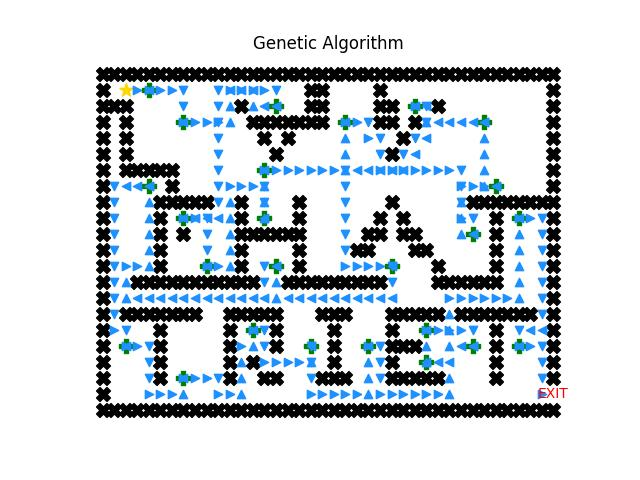
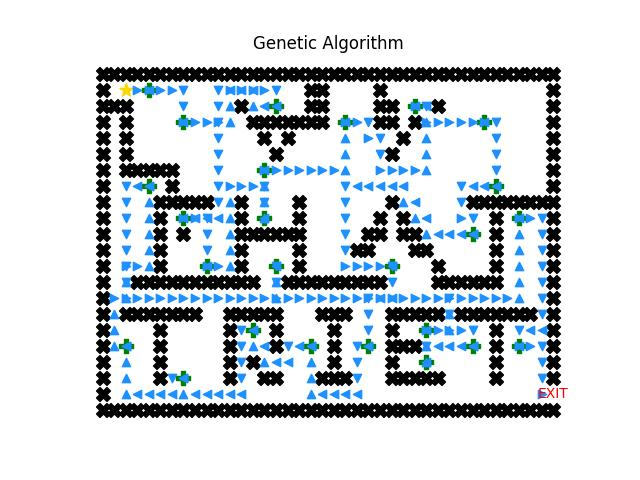
finish dijkstra for lv2

Changed region(s): [[0.1562, 0.375, 0.7188, 0.8438], [0.5312, 0.2188, 0.7812, 0.5]]

diff --git a/source/main.py b/source/main.py
@@ -10,6 +10,7 @@ from HILL_CLIMBING import *
 from GENETIC import *
 from A_Star_lv2 import *
 from DP import *
+from DIJKSTRA import *
 
 def main(argv):
     in_file, out_file = './input/', ''
@@ -40,56 +41,63 @@ def main(argv):
         name = 'BFS'
         route,explored,cost = BFS(matrix,start,end,bonus_points)
         write_cost_path(cost, './output/' + out_file + '/bfs/BFS.txt')
-        visualize_maze(matrix,bonus_points,start,end,out_put,name,route,explored)
+        visualize_maze(matrix,bonus_points,start,end,out_put,name,route,explored,False)
 
         out_put = './output/' + out_file + '/dfs/DFS.jpg'
         name = 'DFS'
         route,explored,cost = DFS_main(matrix,start,end,bonus_points)
         write_cost_path(cost, './output/' + out_file + '/dfs/DFS.txt')
-        visualize_maze(matrix,bonus_points,start,end,out_put,name,route,explored)
+        visualize_maze(matrix,bonus_points,start,end,out_put,name,route,explored,False)
 
         out_put = './output/' + out_file + '/ucs/UCS.jpg'
         name = 'UCS'
         route,explored,cost = UCS(matrix,start,end,bonus_points)
         write_cost_path(cost, './output/' + out_file + '/ucs/UCS.txt')
-        visualize_maze(matrix,bonus_points,start,end,out_put,name,route,explored)
+        visualize_maze(matrix,bonus_points,start,end,out_put,name,route,explored,False)
 
         out_put = './output/' + out_file + '/gbfs/GBFS.jpg'
         name = 'GBFS'
         route,explored,cost = GBFS(matrix,start,end,bonus_points)
         write_cost_path(cost, './output/' + out_file + '/gbfs/GBFS.txt')
-        visualize_maze(matrix,bonus_points,start,end,out_put,name,route,explored)
+        visualize_maze(matrix,bonus_points,start,end,out_put,name,route,explored,False)
 
         out_put = './output/' + out_file + '/astar/astar.jpg'
         name = 'AStar'
         route,explored,cost = AStar(matrix,start,end,bonus_points)
         write_cost_path(cost, './output/' + out_file + '/astar/astar.txt')
-        visualize_maze(matrix,bonus_points,start,end,out_put,name,route,explored)
+        visualize_maze(matrix,bonus_points,start,end,out_put,name,route,explored,False)
 
     if 'level_2' in in_file:
         out_put = './output/' + out_file + '/dp/dp.jpg'
         name = 'DP'
         route,explored,cost = DP(matrix,start,end,bonus_points)
         write_cost_path(cost, './output/' + out_file + '/dp/dp.txt')
-        visualize_maze(matrix,bonus_points,start,end,out_put,name,route,explored)
+        visualize_maze(matrix,bonus_points,start,end,out_put,name,route,explored,False)
+
+        out_put = './output/' + out_file + '/dijkstra/dijkstra.jpg'
+        name = 'Dijkstra'
+        route,explored,cost = Dijkstra(matrix,start,end,bonus_points)
+        write_cost_path(cost, './output/' + out_file + '/dijkstra/dijkstra.txt')
+        visualize_maze(matrix,bonus_points,start,end,out_put,name,route,explored,False)
 
         out_put = './output/' + out_file + '/astar_lv2/astar_lv2.jpg'
         name = 'AStar_LV2'
         route,explored,cost = AStar_Lv2(matrix,start,end,bonus_points)
         write_cost_path(cost, './output/' + out_file + '/astar_lv2/astar_lv2.txt')
-        visualize_maze(matrix,bonus_points,start,end,out_put,name,route,explored)
+        visualize_maze(matrix,bonus_points,start,end,out_put,name,route,explored,False)
+
     if 'level_3' in in_file:
         out_put = './output/' + out_file + '/hill_climbing/hill_climbing.jpg'
         name = 'Hill Climbing'
         route,explored,cost = HILL_CLIMBING(matrix,start,end,bonus_points)
         write_cost_path(cost, './output/' + out_file + '/hill_climbing/hill_climbing.txt')
-        visualize_maze(matrix,bonus_points,start,end,out_put,name,route,explored)
+        visualize_maze(matrix,bonus_points,start,end,out_put,name,route,explored,False)
 
         out_put = './output/' + out_file + '/genetic/genetic.jpg'
         name = 'Genetic Algorithm'
         route,explored,cost = GENETIC(matrix,start,end,bonus_points)
         write_cost_path(cost, './output/' + out_file + '/genetic/genetic.txt')
-        visualize_maze(matrix,bonus_points,start,end,out_put,name,route,explored)
+        visualize_maze(matrix,bonus_points,start,end,out_put,name,route,explored,False)
 
 
 if __name__ == '__main__':

diff --git a/source/DIJKSTRA.py b/source/DIJKSTRA.py
@@ -1,0 +1,89 @@
+from queue import PriorityQueue
+
+def isPointValid(matrix, point):
+    if (point[0] < len(matrix) and point[0] >= 0 and point[1] < len(matrix[0]) and point[1] >= 0 and matrix[point[0]][point[1]] != 'x'):
+        return True
+    return False
+
+class Node:
+    def __init__(self, position, _weight, _bitmask):
+        self.position = position
+        self.weight = _weight
+        self.bitmask = _bitmask
+    
+    def __lt__(self, other):
+        return self.weight < other.weight
+    
+def get_weight(point, bonus_points):
+    for i in range(len(bonus_points)):
+        val = bonus_points[i]
+        if point == (val[0], val[1]):
+            return val[2] + 1, i
+    return 1, -1
+
+def Dijkstra(matrix, start, end, bonus_points):
+    INF = 10 ** 10
+    mask_size = (1 << 10)
+
+    frontier = PriorityQueue()
+    frontier.put(Node(start, 0, 0))
+
+    cost = [[[INF for i in range(mask_size)] for j in range(50)] for k in range(50)]
+    trace = [[[None for i in range(mask_size)] for j in range(50)] for k in range(50)]
+    cost[start[0]][start[1]][0] = 0
+
+    visited = []
+    dicrections = [[0, 1], [0, -1], [1, 0], [-1, 0]]
+    while not frontier.empty():
+        current = frontier.get()
+        cur_position = current.position
+        cur_weight = current.weight
+        cur_bitmask = current.bitmask
+
+        if cur_position not in visited:
+            visited.append(cur_position)
+
+        if cur_weight != cost[cur_position[0]][cur_position[1]][cur_bitmask]: 
+            continue
+        for dir in dicrections:
+            point = (cur_position[0] + dir[0], cur_position[1] + dir[1])
+            if isPointValid(matrix = matrix, point = point) != True:
+                continue
+
+            next_weight, id_bonus = get_weight(point, bonus_points)
+            if next_weight < 0:
+                if (cur_bitmask & (1 << id_bonus)) != 0: # Đã đi qua điểm thưởng này rồi, không đi nữa
+                    continue
+                new_bitmask = (cur_bitmask | (1 << id_bonus))
+                if cur_weight + next_weight < cost[point[0]][point[1]][new_bitmask]:
+                    trace[point[0]][point[1]][new_bitmask] = cur_position
+                    cost[point[0]][point[1]][new_bitmask] = cur_weight + next_weight
+                    frontier.put(Node(point, cur_weight + next_weight, new_bitmask))
+            else:
+                if cur_weight + next_weight < cost[point[0]][point[1]][cur_bitmask]:
+                    trace[point[0]][point[1]][cur_bitmask] = cur_position
+                    cost[point[0]][point[1]][cur_bitmask] = cur_weight + next_weight
+                    frontier.put(Node(point, cur_weight + next_weight, cur_bitmask))
+
+    best_cost = INF
+    best_bitmask = -1
+    for bitmask in range(0, (1 << 10)):
+        if best_cost > cost[end[0]][end[1]][bitmask]:
+            best_cost = cost[end[0]][end[1]][bitmask]
+            best_bitmask = bitmask
+
+    route = []
+    check_pos = end
+    check_bitmask = best_bitmask
+    while check_pos != start:
+        print(check_pos)
+        route.append(check_pos)
+        weight, id = get_weight(check_pos, bonus_points)
+        check_pos = trace[check_pos[0]][check_pos[1]][check_bitmask]
+        if id != -1:
+            check_bitmask = (check_bitmask ^ (1 << id))
+
+    route.append(start)
+    route.reverse()
+    print("HOOOOO")
+    return route, visited, best_cost
